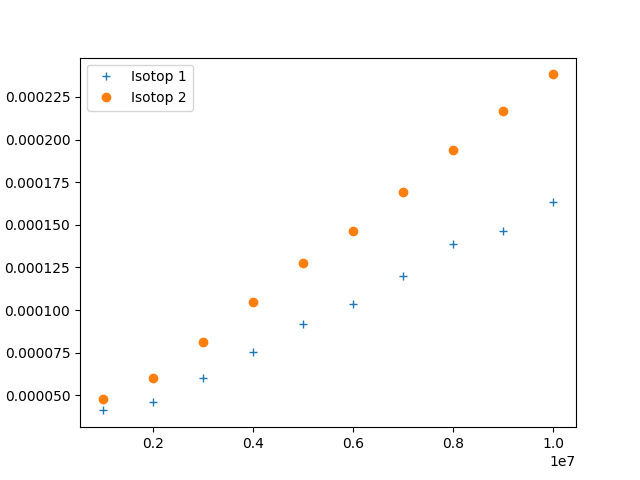
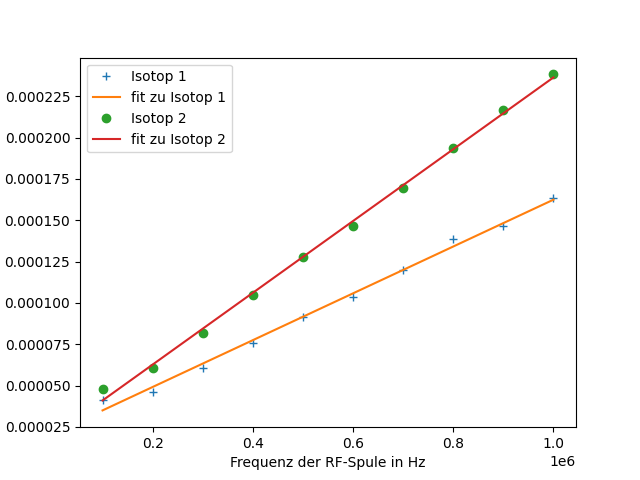
linearer Fit done

diff --git a/Versuche Semester VI/2.V21Optisches_Pumpen/python/V21.py b/Versuche Semester VI/2.V21Optisches_Pumpen/python/V21.py
@@ -19,7 +19,7 @@ if os.path.exists("build/plots") == False:
 ## Read in the measurements
 
 #Fequenzen der RF Spule in Hz:
-freq = np.array([1,2,3,4,5,6,7,8,9,10]) * 1e6
+freq = np.array([1,2,3,4,5,6,7,8,9,10]) * 1e5
 
 #Stromstärken der Sweep-Spule in A:
 i_sweep_1 = np.array([6.82,4.75,7.1,2.37,2.1,2.65,2.4,4.05,2.45,3.85]) * 0.1
@@ -48,6 +48,7 @@ n_ver = 20
 
 ##Konstanten einlesen
 mu = const.mu_0
+h  = const.h  
 
 
 
@@ -63,9 +64,27 @@ def Helm( I , R , N):
 B_1 = Helm(i_sweep_1 , r_sweep, n_sweep) + Helm(i_hor_1, r_hor, n_hor)
 B_2 = Helm(i_sweep_2 , r_sweep, n_sweep) + Helm(i_hor_2, r_hor, n_hor)
 
+##Fitten:
+
+p_arr_1 , cov_1 = np.polyfit(freq, B_1, deg=1, cov=True)
+print(p_arr_1)
+error_1 = np.sqrt(np.diag(cov_1))
+print(error_1)
+p_arr_2 , cov_2 = np.polyfit(freq, B_2, deg=1, cov=True)
+
+
+
+##Plotten:
+#Linspace:
+x_freq = np.linspace(1 * 1e5, 10 * 1e5, 1000)
+#Peak magnetfleder
 plt.figure()
 plt.plot(freq, B_1, '+', label='Isotop 1')
+plt.plot(x_freq, x_freq * p_arr_1[0] + p_arr_1[1], label='fit zu Isotop 1')
 plt.plot(freq, B_2, 'o', label='Isotop 2')
+plt.plot(x_freq, x_freq * p_arr_2[0] + p_arr_2[1], label='fit zu Isotop 2')
+plt.xlabel('Frequenz der RF-Spule in Hz')
+plt.ylabel('Summierte Magnetfeldstärke in den Peaks')
 plt.legend()
 plt.savefig('Magnetfeld.png')
 
